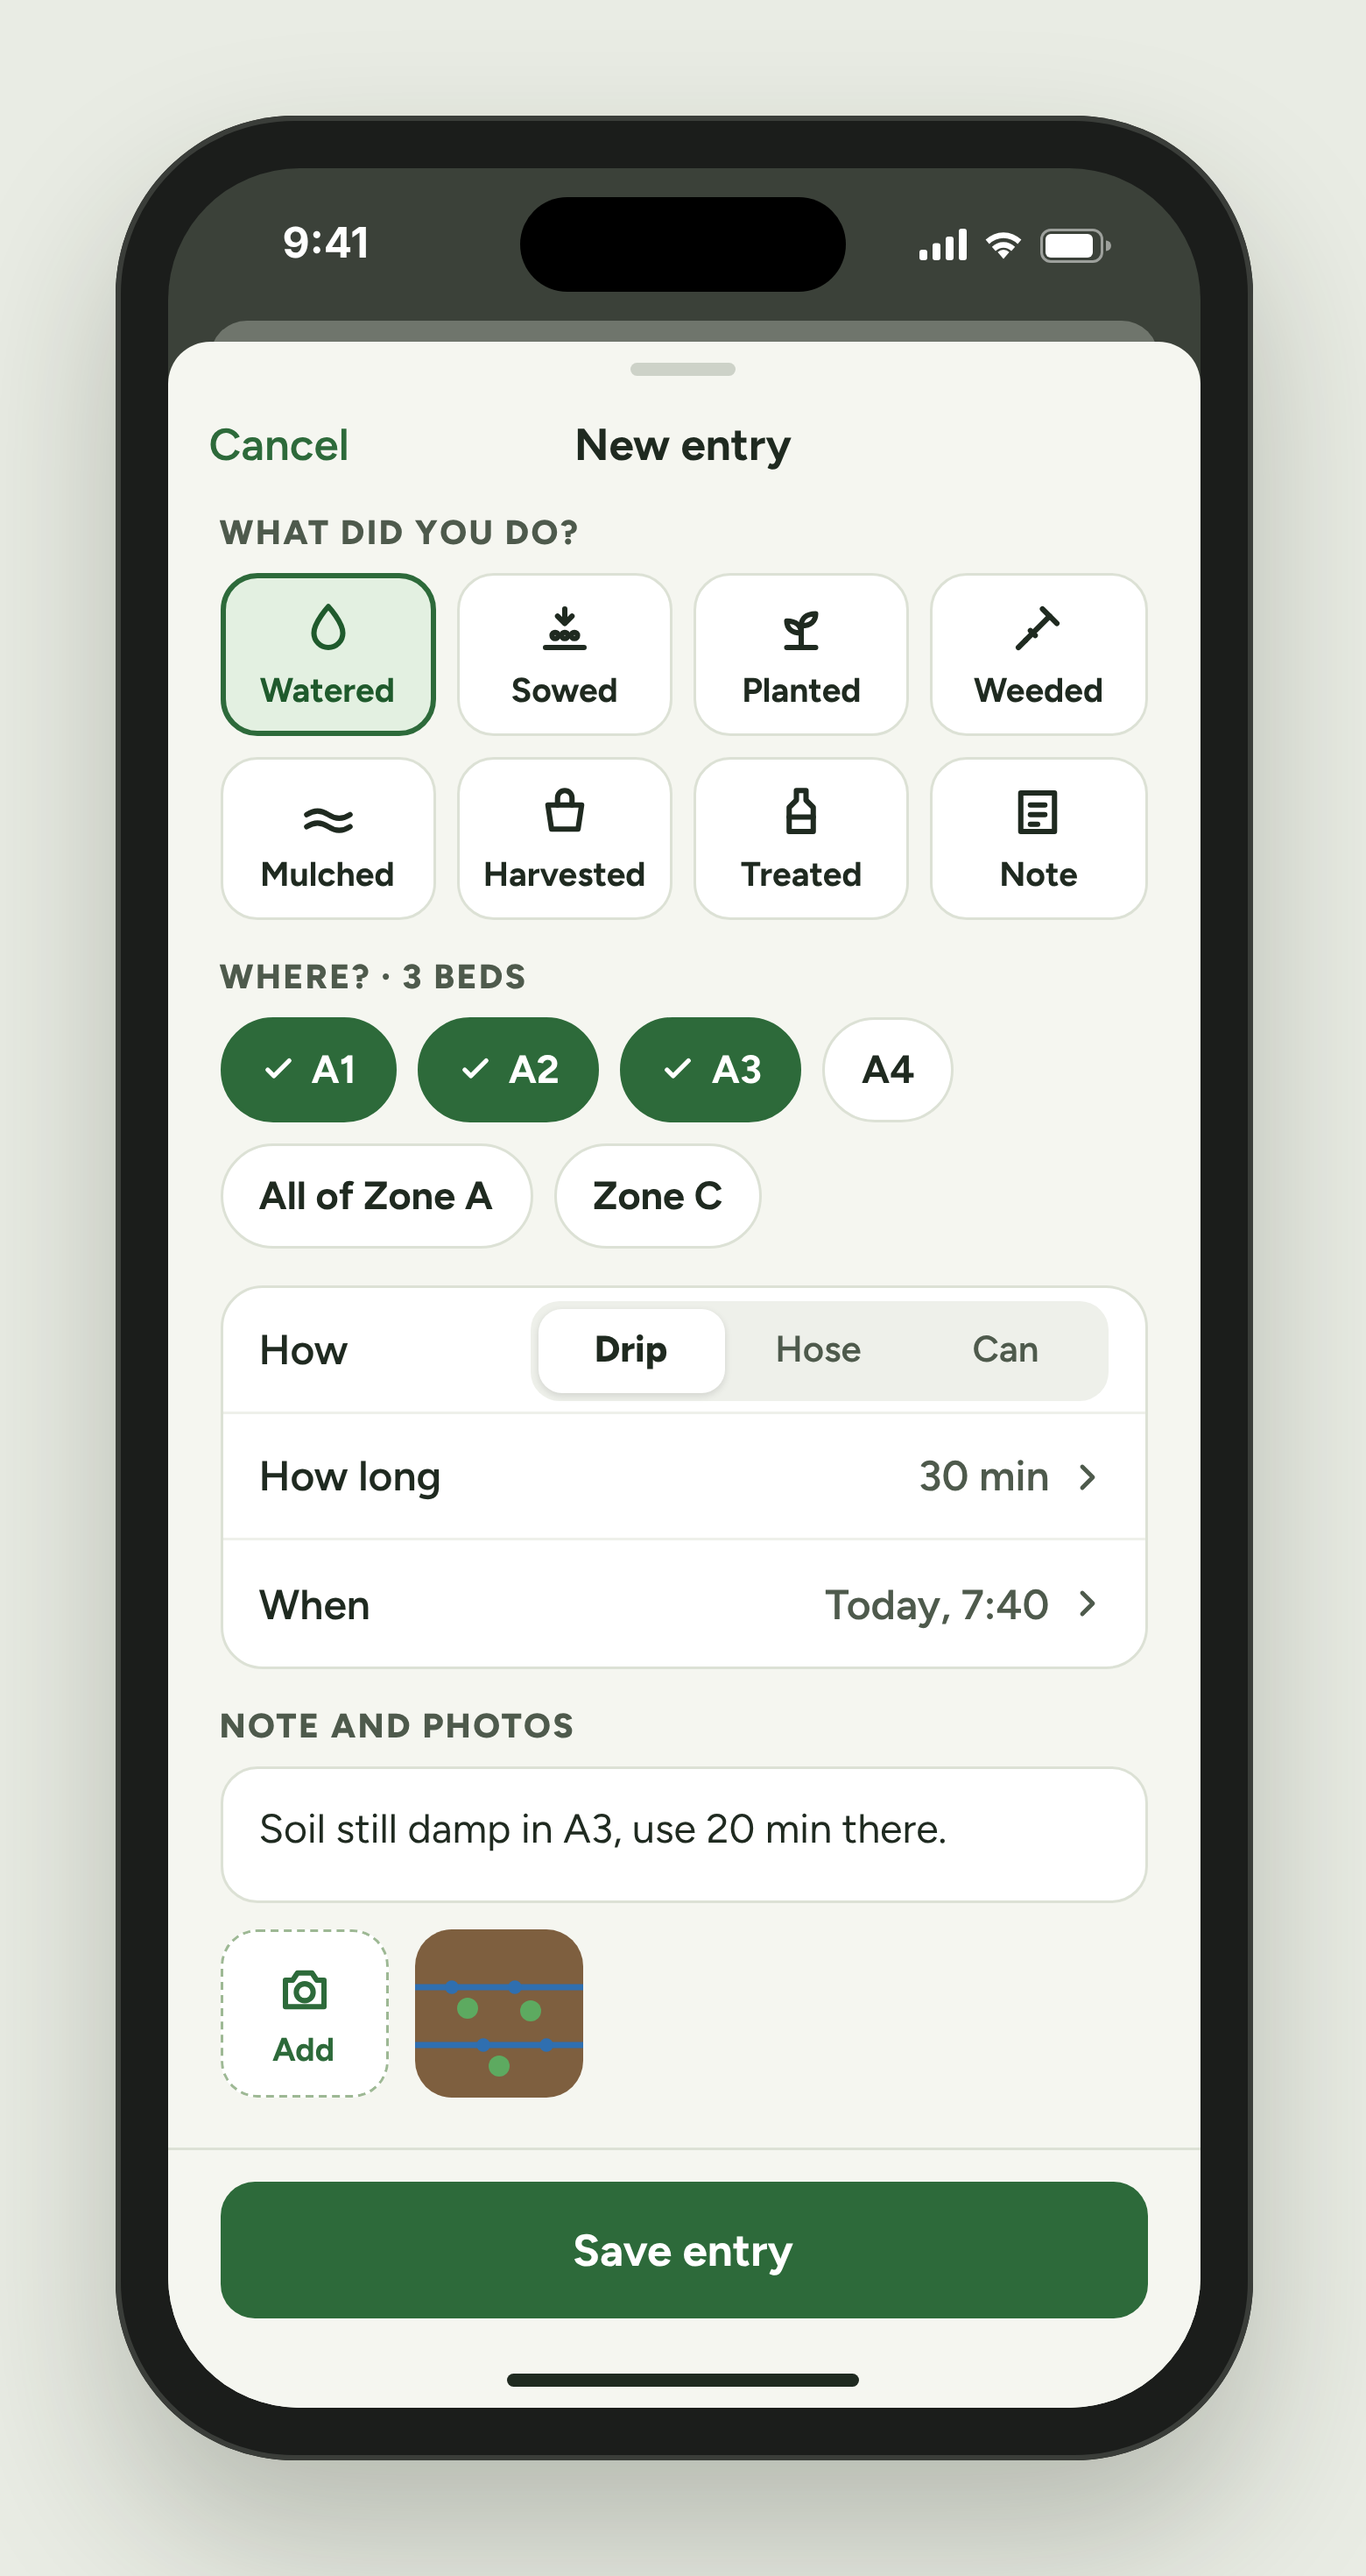
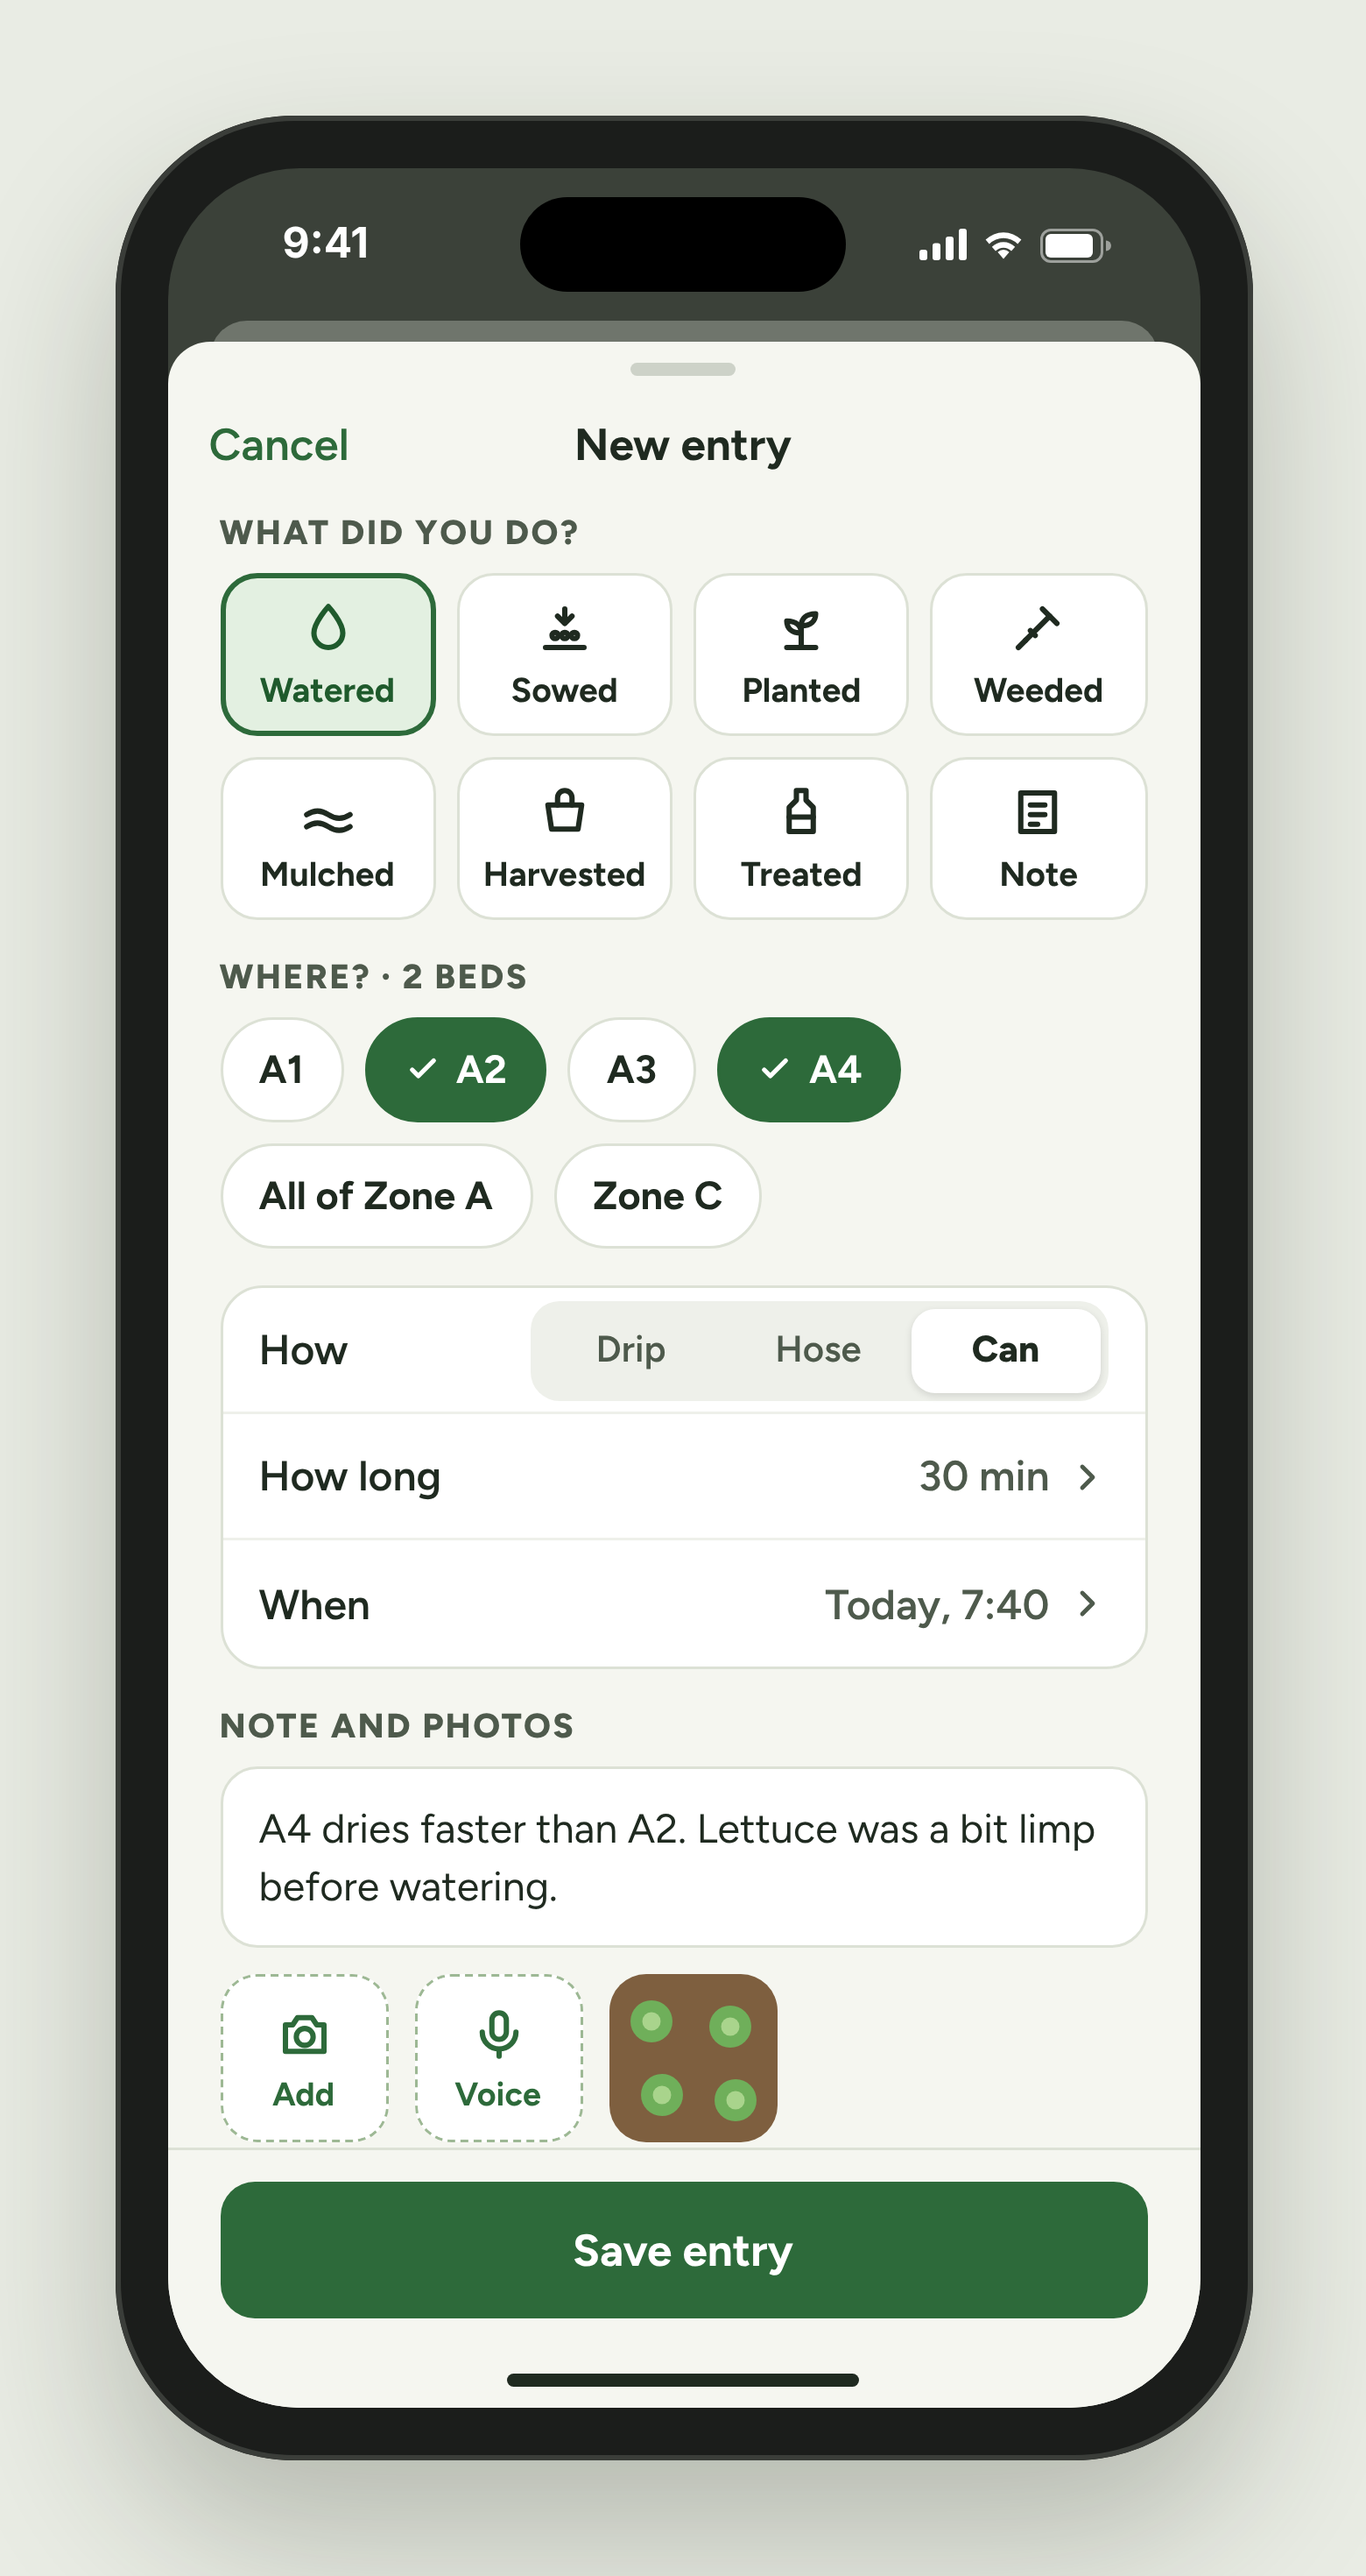
Design F2 new entry: today's hand watering of A2 and A4, voice note button
Claude-Session: https://claude.ai/code/session_015NynAjU4naPZwzmeuGazot

diff --git a/design/source/F2-new-entry.html b/design/source/F2-new-entry.html
@@ -69,12 +69,12 @@
       </div>
 
       <div>
-        <div class="label">Where? · 3 beds</div>
+        <div class="label">Where? · 2 beds</div>
         <div class="beds">
-          <span class="bed on"><svg width="14" height="14" viewBox="0 0 24 24" fill="none" stroke="#fff" stroke-width="3" stroke-linecap="round" stroke-linejoin="round"><path d="M5 12l4 4 10-10"/></svg>A1</span>
+          <span class="bed">A1</span>
           <span class="bed on"><svg width="14" height="14" viewBox="0 0 24 24" fill="none" stroke="#fff" stroke-width="3" stroke-linecap="round" stroke-linejoin="round"><path d="M5 12l4 4 10-10"/></svg>A2</span>
-          <span class="bed on"><svg width="14" height="14" viewBox="0 0 24 24" fill="none" stroke="#fff" stroke-width="3" stroke-linecap="round" stroke-linejoin="round"><path d="M5 12l4 4 10-10"/></svg>A3</span>
-          <span class="bed">A4</span>
+          <span class="bed">A3</span>
+          <span class="bed on"><svg width="14" height="14" viewBox="0 0 24 24" fill="none" stroke="#fff" stroke-width="3" stroke-linecap="round" stroke-linejoin="round"><path d="M5 12l4 4 10-10"/></svg>A4</span>
           <span class="bed">All of Zone A</span>
           <span class="bed">Zone C</span>
         </div>
@@ -82,7 +82,7 @@
 
       <div class="card">
         <div class="rowi">How
-          <div class="seg"><i class="on">Drip</i><i>Hose</i><i>Can</i></div>
+          <div class="seg"><i>Drip</i><i>Hose</i><i class="on">Can</i></div>
         </div>
         <div class="rowi">How long <span>30 min
           <svg width="16" height="16" viewBox="0 0 24 24" fill="none" stroke="#4E5A4C" stroke-width="2.4" stroke-linecap="round" stroke-linejoin="round"><path d="M9 6l6 6-6 6"/></svg></span></div>
@@ -92,11 +92,12 @@
 
       <div>
         <div class="label">Note and photos</div>
-        <div class="note" style="margin-bottom: 10px">Soil still damp in A3, use 20 min there.</div>
+        <div class="note" style="margin-bottom: 10px">A4 dries faster than A2. Lettuce was a bit limp before watering.</div>
         <div class="photos">
           <div class="addph"><svg width="22" height="22" viewBox="0 0 24 24" fill="none" stroke="#2D6A3A" stroke-width="2.2" stroke-linecap="round" stroke-linejoin="round"><path d="M4 8h3l2-3h6l2 3h3v11H4z"/><circle cx="12" cy="13" r="3.5"/></svg>Add</div>
+          <div class="addph"><svg width="22" height="22" viewBox="0 0 24 24" fill="none" stroke="#2D6A3A" stroke-width="2.2" stroke-linecap="round" stroke-linejoin="round"><rect x="9" y="3" width="6" height="11" rx="3"/><path d="M5 11a7 7 0 0 0 14 0M12 18v3"/></svg>Voice</div>
           <div style="width: 64px; height: 64px; border-radius: 14px; overflow: hidden">
-            <svg width="64" height="64" viewBox="0 0 64 64"><rect width="64" height="64" fill="#7E5F3F"/><g stroke="#2F6FB0" stroke-width="2.4"><path d="M0 22 H64"/><path d="M0 44 H64"/></g><g fill="#2F6FB0"><circle cx="14" cy="22" r="2.6"/><circle cx="38" cy="22" r="2.6"/><circle cx="26" cy="44" r="2.6"/><circle cx="50" cy="44" r="2.6"/></g><g fill="#5DAA60"><circle cx="20" cy="30" r="4"/><circle cx="44" cy="31" r="4"/><circle cx="32" cy="52" r="4"/></g></svg>
+            <svg width="64" height="64" viewBox="0 0 64 64"><rect width="64" height="64" fill="#7E5F3F"/><g fill="#6FAF5A"><circle cx="16" cy="18" r="8"/><circle cx="46" cy="20" r="8"/><circle cx="20" cy="46" r="8"/><circle cx="48" cy="48" r="8"/></g><g fill="#A9D48C"><circle cx="16" cy="18" r="3.5"/><circle cx="46" cy="20" r="3.5"/><circle cx="20" cy="46" r="3.5"/><circle cx="48" cy="48" r="3.5"/></g></svg>
           </div>
         </div>
       </div>
